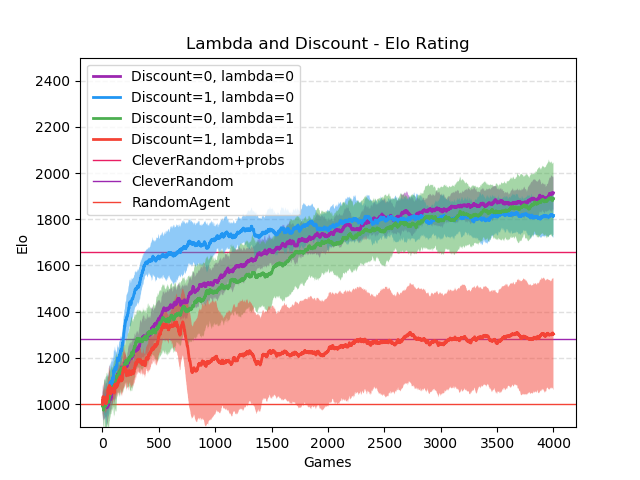
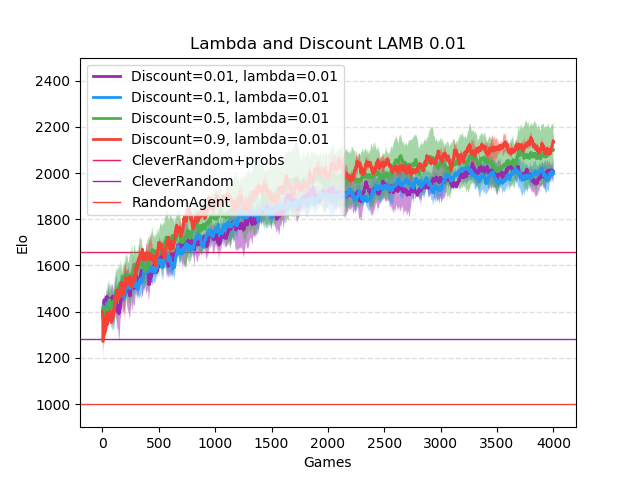
new_plots_lambda_discount

diff --git a/Agents/NNAgent.py b/Agents/NNAgent.py
@@ -8,7 +8,7 @@ import torch.optim as optim
 
 
 class NNAgent(Agent):
-    def __init__(self, explore=False, doTrain=False, impala=False, calcprobs=True, minmax=False, lossf='MME', K=2500, dropout=0.0, alpha=None, discount=0.99, lambd=0.9, lr=0.00005, TopNvalues=3, cutOffdepth=3, ValueCutOff=50, ValueDiffCutOff=15, ProbabilityCutOff=0.001, historyLength=30, startAfterNgames=30, batchSize=100, sampleLenth=10, network=[50, 25, 10], analyse=False, montecarlo=False):
+    def __init__(self, explore=False, doTrain=False, impala=False, calcprobs=True, minmax=False, lossf='MME', K=2500, dropout=0.0, alpha=None, discount=0.95, lambd=0.9, lr=0.0001, TopNvalues=3, cutOffdepth=3, ValueCutOff=50, ValueDiffCutOff=15, ProbabilityCutOff=0.001, historyLength=30, startAfterNgames=30, batchSize=100, sampleLenth=10, network=[50, 25, 10], analyse=False, montecarlo=False):
         self.setup(explore, doTrain, impala, calcprobs, minmax, lossf, K, dropout, None, discount, lambd, (1-lambd) * lr, 'NNAgent', TopNvalues, cutOffdepth, ValueCutOff, ValueDiffCutOff, ProbabilityCutOff, historyLength, startAfterNgames, batchSize, sampleLenth, network, analyse, montecarlo)
         self.optimizer = None
         self.optimise = True

diff --git a/main.py b/main.py
@@ -28,10 +28,10 @@ if debuggerMode:
     debugger(nGames, addAgent, Thename, mainplayer, chooserfunction, env)
 else:
     env = Myretuen(color1='red', color2='green', nAnts=10, fruits=False)
-    controller = Controller(env=env, agent1=Opponent(CleverRandom()), agent2=NNAgent())
+    controller = Controller(env=env, agent1=Opponent([RandomAgent(), CleverRandom(calcprobs=False), CleverRandom(calcprobs=True)]), agent2=NNAgent(explore=True, impala=True))
     # controller = Controller(env=env, agent1=Opponent(NNAgent()), agent2=PlayerAgent())
     # controller = Controller(env=env, agent1=Opponent(RandomAgent()), agent2=NNAgent(explore=False, doTrain=False, impala=True, minmax=False, discount=0.99, lambd=0.9, lr=0.00005, TopNvalues=3, cutOffdepth=3, ValueCutOff=25, ValueDiffCutOff=5, ProbabilityCutOff=0.02, historyLength=20, startAfterNgames=20, batchSize=300, sampleLenth=10, analyse=True).loadModel('NNAgentrandomstate6'))
-    controller.run(CalculateProbs=True, timeDelay=0, AddAgent=300)
+    controller.run(CalculateProbs=True, timeDelay=0, AddAgent=20)
 
 
 def plot(name, labels=False):

diff --git a/plotgenerators/Lamd0-01.py b/plotgenerators/Lamd0-01.py
@@ -1,0 +1,9 @@
+from plots import EloPlot, Data
+import numpy as np
+
+l = [('LAMBDA-0.01_DISCOUNT-0.01', 'Discount=0.01, lambda=0.01', '#9C27B0'), ('LAMBDA-0.01_DISCOUNT-0.1', 'Discount=0.1, lambda=0.01', '#2196F3'), ('LAMBDA-0.01_DISCOUNT-0.5', 'Discount=0.5, lambda=0.01', '#4CAF50'), ('LAMBDA-0.01_DISCOUNT-0.9', 'Discount=0.9, lambda=0.01', '#F44336'), ('LAMBDA-0.01_DISCOUNT-0.99', 'Discount=0.99, lambda=0.01', '#228B22')]
+
+with EloPlot(title=f'Lambda and Discount - lambda 0.01', saves=[f'GoodPlots/LambdaDiscountLAMBD001.png']) as plt:
+    for EloOverTime, name, agent, color in Data([f".\\outputs\\{a[0]}\\csv" for a in l], colors=[a[2] for a in l], elo=False):
+        name = [a[1] for a in l if a[0] == name][0]
+        plt.varPlot(plt, EloOverTime, name, color)

diff --git a/plotgenerators/Lamd0-99.py b/plotgenerators/Lamd0-99.py
@@ -1,0 +1,9 @@
+from plots import EloPlot, Data
+import numpy as np
+
+l = [('LAMBDA-0.99_DISCOUNT-0.01', 'Discount=0.01, lambda=0.99', '#9C27B0'), ('LAMBDA-0.99_DISCOUNT-0.1', 'Discount=0.1, lambda=0.99', '#2196F3'), ('LAMBDA-0.99_DISCOUNT-0.5', 'Discount=0.5, lambda=0.99', '#4CAF50'), ('LAMBDA-0.99_DISCOUNT-0.9', 'Discount=0.9, lambda=0.99', '#F44336'), ('LAMBDA-0.99_DISCOUNT-0.99', 'Discount=0.99, lambda=0.99', '#228B22')]
+
+with EloPlot(title=f'Lambda and Discount - LAMB - 0.99', saves=[f'GoodPlots/LambdaDiscountLAMBD099.png']) as plt:
+    for EloOverTime, name, agent, color in Data([f".\\outputs\\{a[0]}\\csv" for a in l], colors=[a[2] for a in l], elo=False):
+        name = [a[1] for a in l if a[0] == name][0]
+        plt.varPlot(plt, EloOverTime, name, color)

diff --git a/plotgenerators/Lamd0-1.py b/plotgenerators/Lamd0-1.py
@@ -1,0 +1,9 @@
+from plots import EloPlot, Data
+import numpy as np
+
+l = [('LAMBDA-0.1_DISCOUNT-0.01', 'Discount=0.01, lambda=0.1', '#9C27B0'), ('LAMBDA-0.1_DISCOUNT-0.1', 'Discount=0.1, lambda=0.1', '#2196F3'), ('LAMBDA-0.1_DISCOUNT-0.5', 'Discount=0.5, lambda=0.1', '#4CAF50'), ('LAMBDA-0.1_DISCOUNT-0.9', 'Discount=0.9, lambda=0.1', '#F44336'), ('LAMBDA-0.1_DISCOUNT-0.99', 'Discount=0.99, lambda=0.1', '#228B22')]
+
+with EloPlot(title=f'Lambda and Discount - LAMB - 0.1', saves=[f'GoodPlots/LambdaDiscountLAMBD01.png']) as plt:
+    for EloOverTime, name, agent, color in Data([f".\\outputs\\{a[0]}\\csv" for a in l], colors=[a[2] for a in l], elo=False):
+        name = [a[1] for a in l if a[0] == name][0]
+        plt.varPlot(plt, EloOverTime, name, color)

diff --git a/plotgenerators/Lamd0-5.py b/plotgenerators/Lamd0-5.py
@@ -1,0 +1,9 @@
+from plots import EloPlot, Data
+import numpy as np
+
+l = [('LAMBDA-0.5_DISCOUNT-0.01', 'Discount=0.01, lambda=0.5', '#9C27B0'), ('LAMBDA-0.5_DISCOUNT-0.1', 'Discount=0.1, lambda=0.5', '#2196F3'), ('LAMBDA-0.5_DISCOUNT-0.5', 'Discount=0.5, lambda=0.5', '#4CAF50'), ('LAMBDA-0.5_DISCOUNT-0.9', 'Discount=0.9, lambda=0.5', '#F44336'), ('LAMBDA-0.5_DISCOUNT-0.99', 'Discount=0.99, lambda=0.5', '#228B22')]
+
+with EloPlot(title=f'Lambda and Discount - LAMB - 0.5', saves=[f'GoodPlots/LambdaDiscountLAMBD05.png']) as plt:
+    for EloOverTime, name, agent, color in Data([f".\\outputs\\{a[0]}\\csv" for a in l], colors=[a[2] for a in l], elo=False):
+        name = [a[1] for a in l if a[0] == name][0]
+        plt.varPlot(plt, EloOverTime, name, color)

diff --git a/plotgenerators/Lamd0-9.py b/plotgenerators/Lamd0-9.py
@@ -1,0 +1,9 @@
+from plots import EloPlot, Data
+import numpy as np
+
+l = [('LAMBDA-0.9_DISCOUNT-0.01', 'Discount=0.01, lambda=0.9', '#9C27B0'), ('LAMBDA-0.9_DISCOUNT-0.1', 'Discount=0.1, lambda=0.9', '#2196F3'), ('LAMBDA-0.9_DISCOUNT-0.5', 'Discount=0.5, lambda=0.9', '#4CAF50'), ('LAMBDA-0.9_DISCOUNT-0.9', 'Discount=0.9, lambda=0.9', '#F44336'), ('LAMBDA-0.9_DISCOUNT-0.99', 'Discount=0.99, lambda=0.9', '#228B22')]
+
+with EloPlot(title=f'Lambda and Discount - LAMB - 0.9', saves=[f'GoodPlots/LambdaDiscountLAMBD09.png']) as plt:
+    for EloOverTime, name, agent, color in Data([f".\\outputs\\{a[0]}\\csv" for a in l], colors=[a[2] for a in l], elo=False):
+        name = [a[1] for a in l if a[0] == name][0]
+        plt.varPlot(plt, EloOverTime, name, color)

diff --git a/Agents/cleverRandom.py b/Agents/cleverRandom.py
@@ -9,9 +9,9 @@ class CleverRandom(Agent):
 
     def resetGame(self):
         if self.calcprobs:
-            self.rating = 1475
+            self.rating = 1650
         else:
-            self.rating = 1230
+            self.rating = 1300
         if self.minimaxi == True:
             self.rating = 2000
         print(self.rating)
